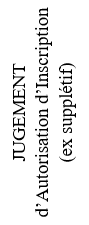
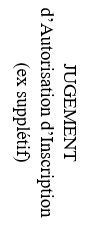
fix(pdf): corriger l'orientation et la taille de l'image de la partie jugement

diff --git a/Backend/resources/views/pdf/act.blade.php b/Backend/resources/views/pdf/act.blade.php
@@ -116,7 +116,7 @@
 
         .jugement-table { width: 100%; border-collapse: collapse; border-top: 1px solid #000; }
         .jugement-table td { vertical-align: top; padding: 4px 8px; }
-        .jugement-label-cell { width: 30px; border-right: 1px solid #000; text-align: center; vertical-align: middle; }
+        .jugement-label-cell { width: 55px; border-right: 1px solid #000; text-align: center; vertical-align: middle; }
         .jugement-label-vertical { font-size: 8px; text-transform: uppercase; writing-mode: vertical-rl; transform: rotate(180deg); letter-spacing: 1px; white-space: nowrap; }
         .jugement-content-cell { font-size: 11px; line-height: 1.8; border-right: 1px solid #000; }
         .jugement-ref-cell { width: 95px; text-align: center; font-size: 11px; line-height: 2.0; }
@@ -327,7 +327,7 @@
     <table class="jugement-table">
         <tr>
             <td class="jugement-label-cell">
-                <img src="{{ public_path('images/partie_jugement.png') }}" alt="Jugement" style="width: 25px;">
+                <img src="{{ public_path('images/partie_jugement.png') }}" alt="Jugement" style="width: 50px;">
             </td>
             <td class="jugement-content-cell">
                 <p>Délivré par le Juge du tribunal de {{ strtoupper($center?->region ?? 'ZIGUINCHOR') }}</p>
